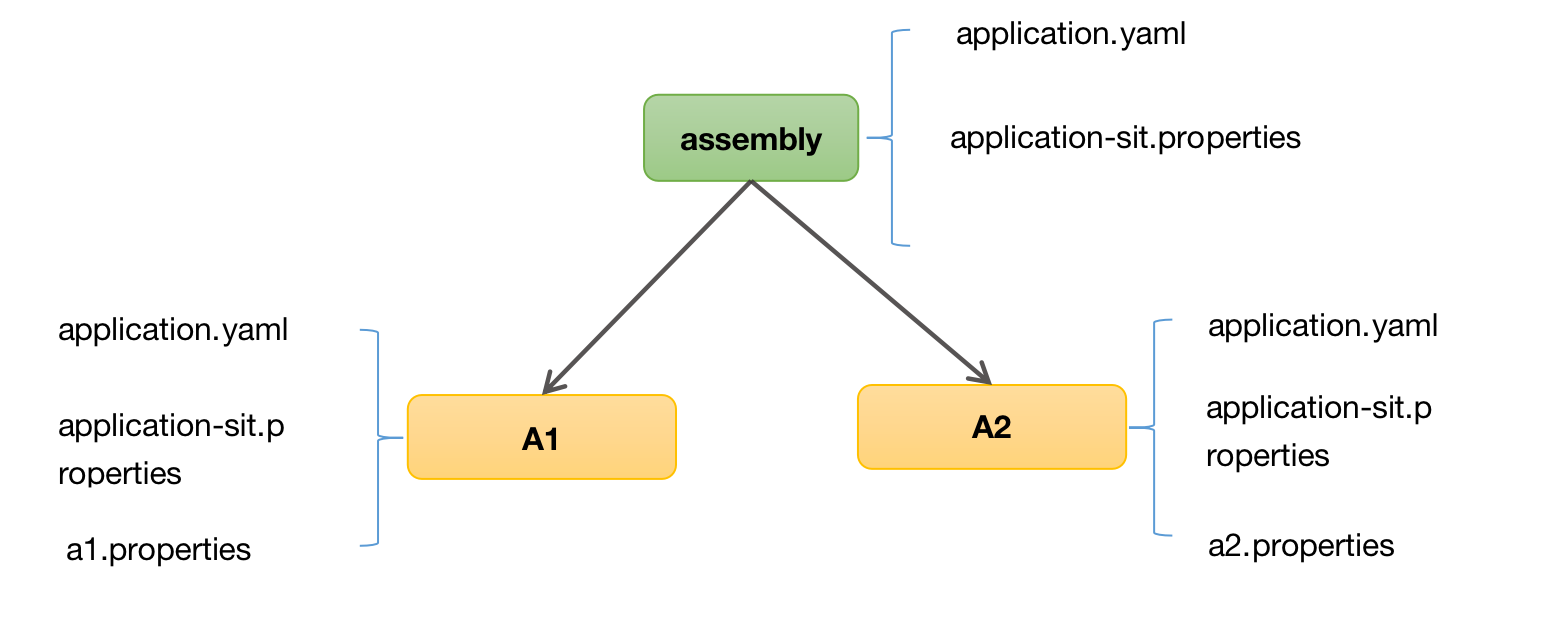
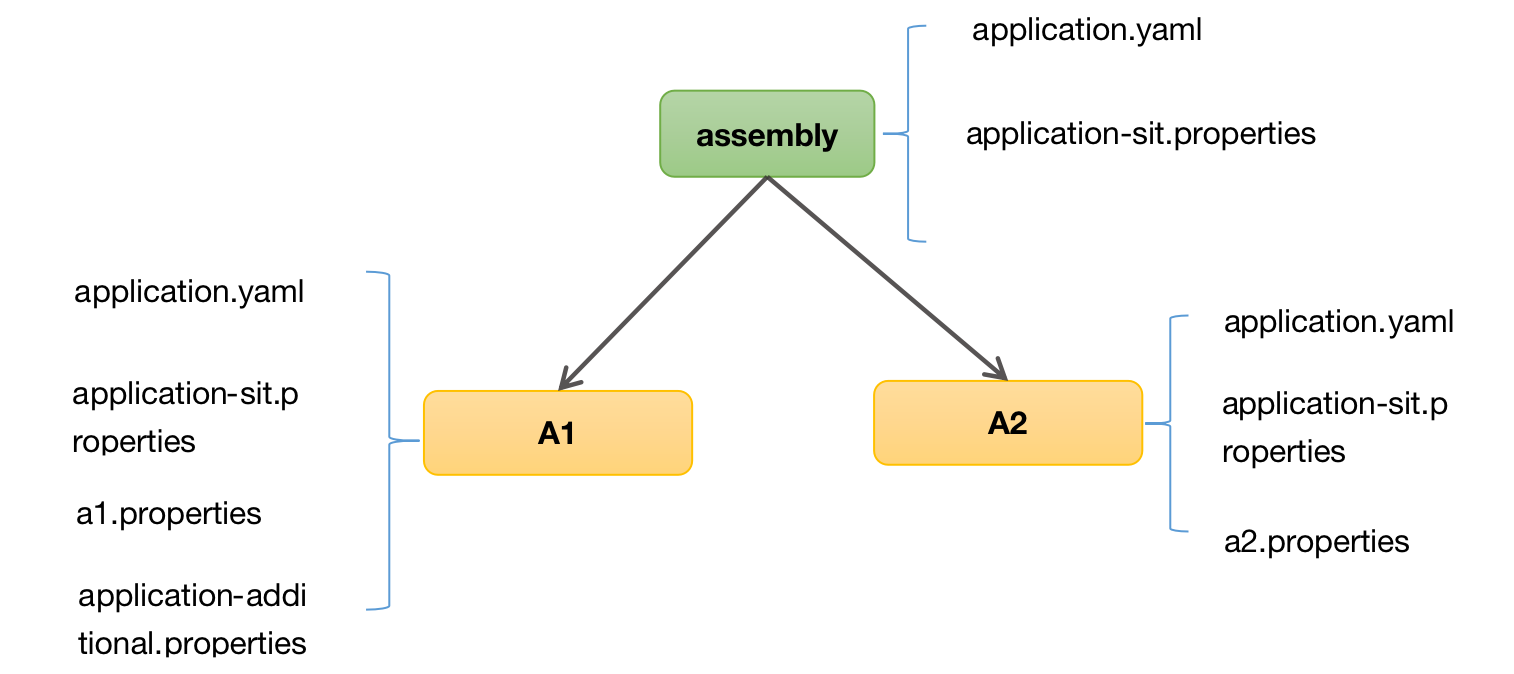
add config order

diff --git a/assembly-ms/src/main/java/com/test/assembly/AssemblyApplication.java b/assembly-ms/src/main/java/com/test/assembly/AssemblyApplication.java
@@ -33,6 +33,7 @@ public class AssemblyApplication {
                             .properties("spring.cloud.consul.discovery.instance-id=a1")
 //                            .properties("spring.cloud.consul.service-registry.auto-registration.enabled=true")
                             .sources(RefreshScope.class)
+                            .profiles("additional")
                             .run(args);
             log.info(context.getId() + " isActive: " + context.isActive());
             log.info(commonContext.getId() + " env: " + context.getEnvironment().toString());

diff --git a/README.md b/README.md
@@ -111,6 +111,8 @@ public class ApolloApplication {
 
 ![](doc/springboot-assembly-dep.png)
 
+其中 application-additional.properties 是通过 SpringApplicationBuilder.profiles("additional") 动态加入的配置
+
 #### 总结:
 
 - **<font color='red'>1、同名配置文件先加载上层配置, 即 application.yaml 和 application-sit.properties 只会加载assembly的</font>.** **尽管每个子context都会重新初始化 Environment, 依然只能加载到上层同名配置文件.**
@@ -119,5 +121,10 @@ public class ApolloApplication {
 - **<font color='red'>4、通过 SpringApplicationBuilder.profiles("portal")加载到配置, 优先级最高. 见apollo assembly源码改造.</font>**
 - **<font color='red'>5、此外 子context前, 还可以通过 System.setProperty() 设置配置.</font>**
 - **<font color='red'>6、一些配置bean在父 Context 就加载了,  如 DataSourceProperties 配置,  若希望通过设置配置改变值必须 publishEvent 刷新bean, 否则只能通过getBean()去改bean的属性值.</font>** **换句话说, 子context 装配bean时, 先到父 context 上找, 没有再注册bean. 因此 A1 和 A2模块注意定义不同的包路径,  在装配bean时, 通过扫描不同包路径隔离.** 
-
+- **<font color='red'>7、@PropertySource的优先级最低 .</font>**
+ 
 **以上总结并非100%正确. 有兴趣的同学可以先阅读spring boot 启动源码, 并且自行测试.**
+
+附： 配置顺序
+
+![](doc/springboot-assembly-config-order.png)
